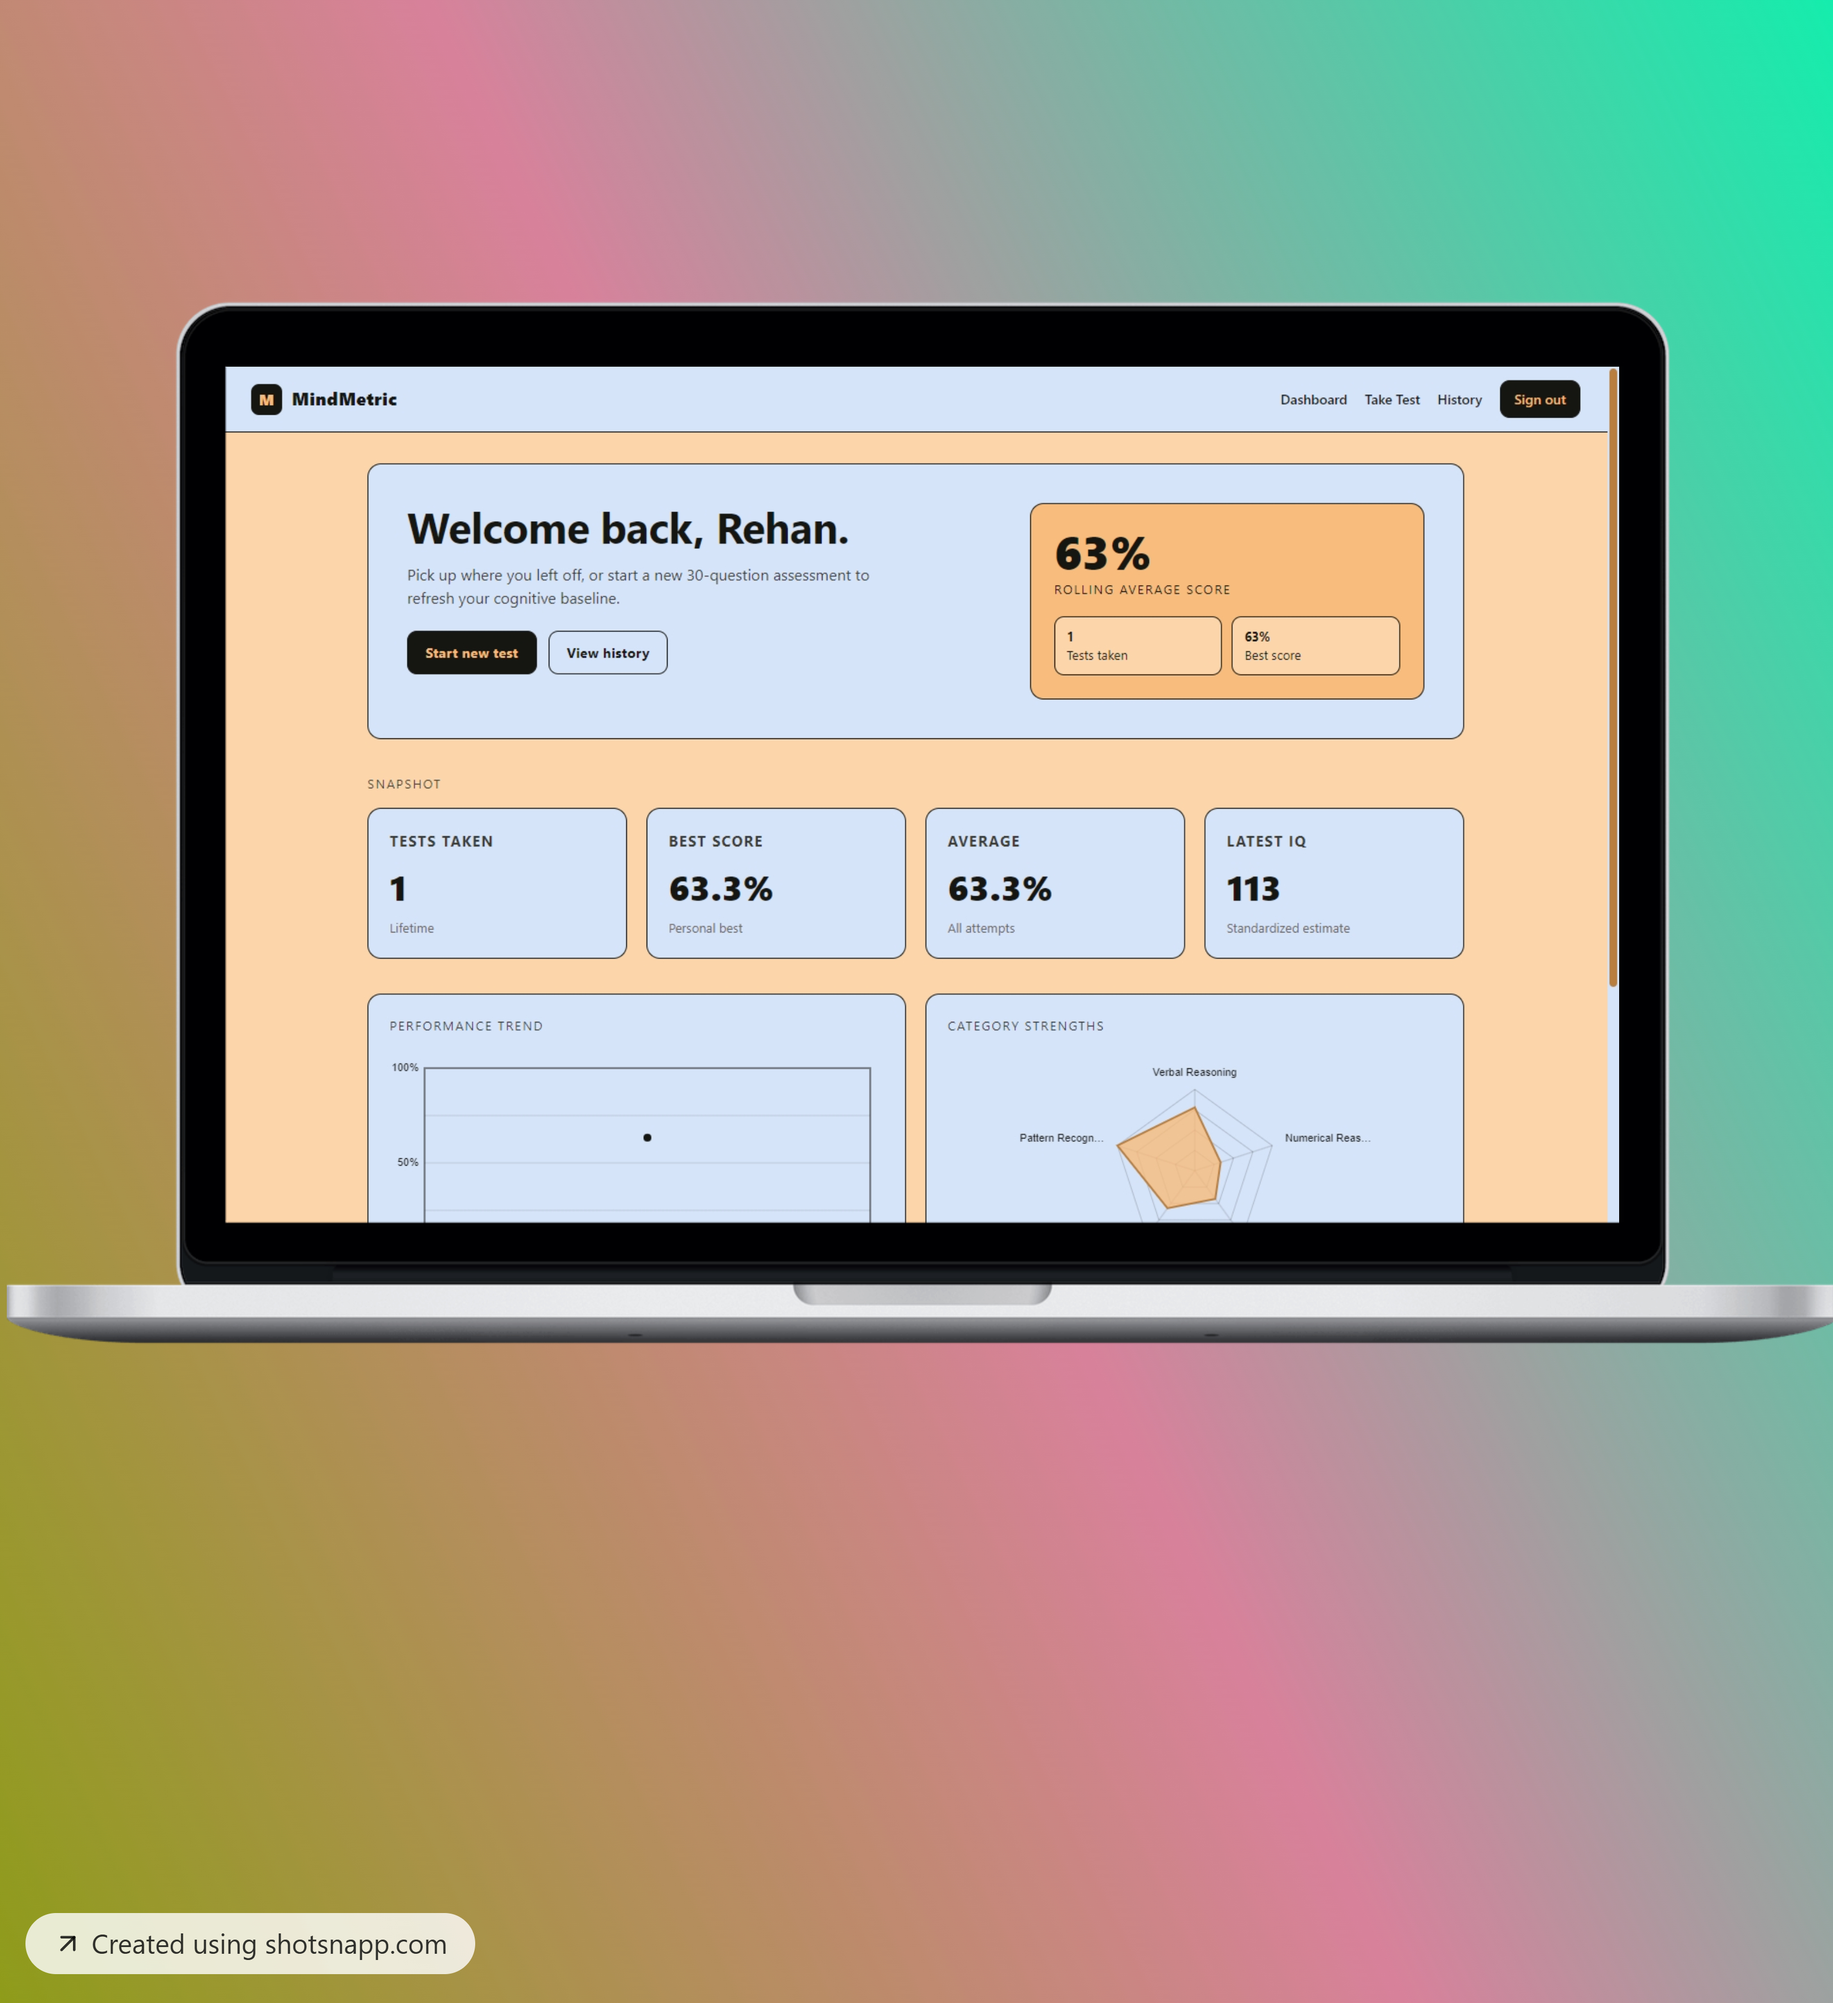
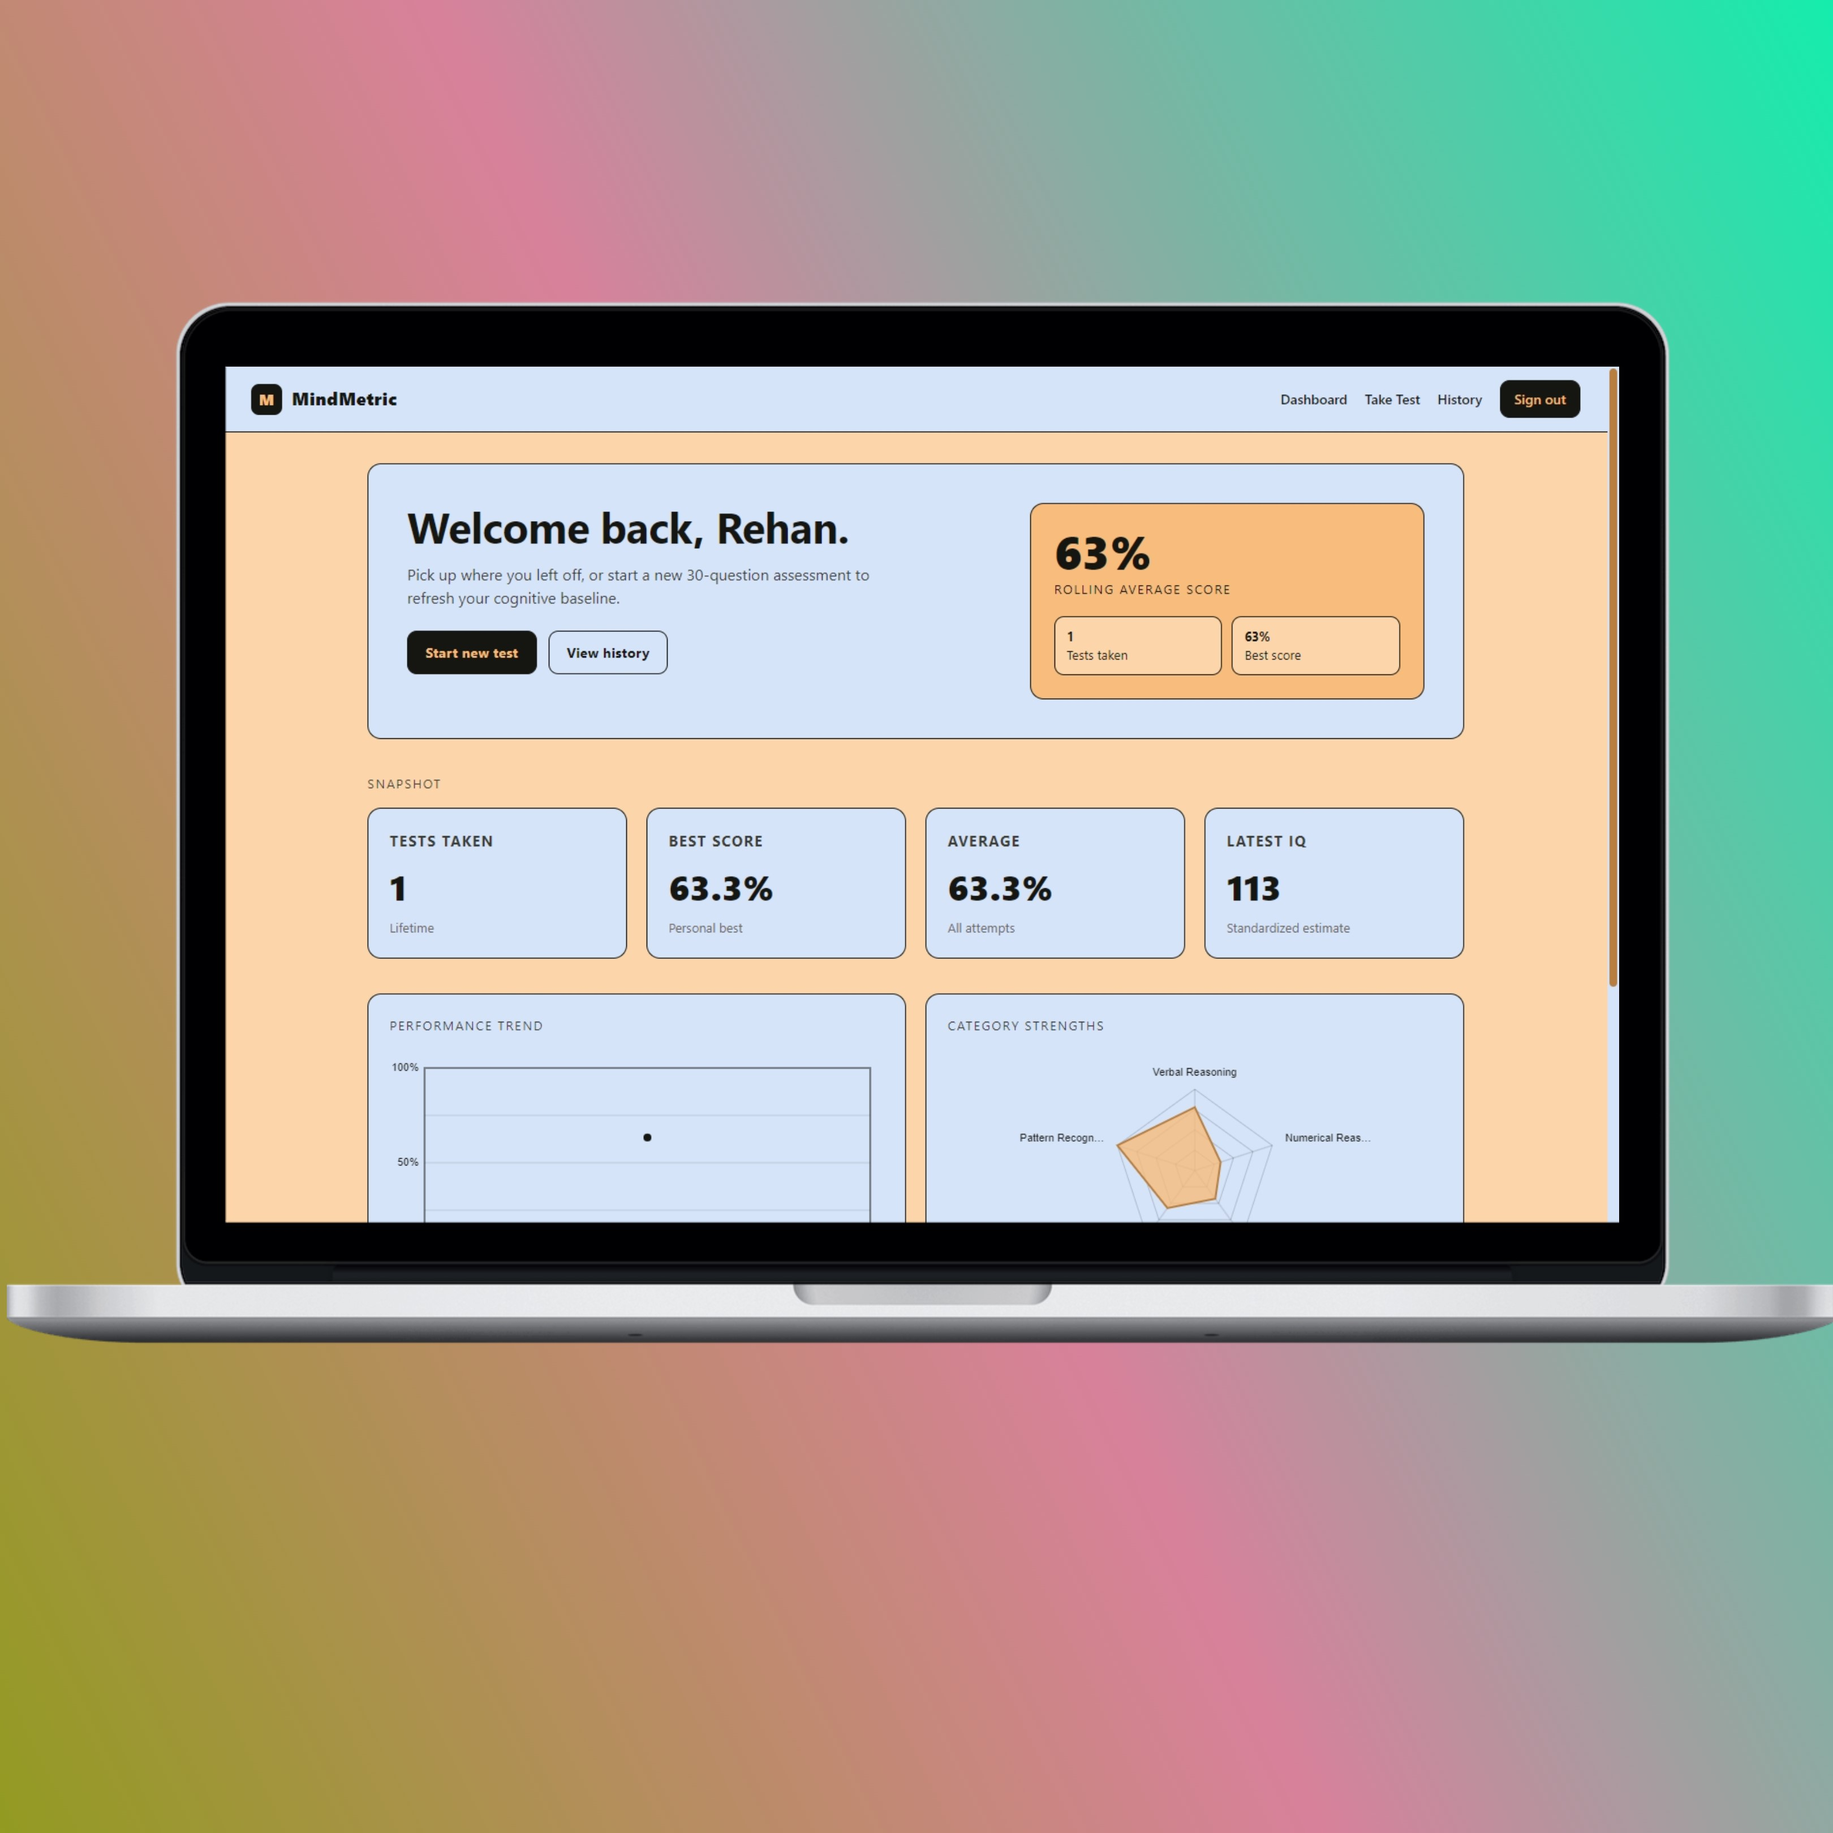
Images FIX

Changed region(s): [[0.0, 0.1247, 1.0, 0.7481], [0.0, 0.9352, 0.2806, 0.9975], [0.8728, 0.4988, 0.904, 0.5299]]

diff --git a/README.md b/README.md
@@ -58,7 +58,7 @@ For Gmail use an **App Password** (not your account password).
 ![Homepage](screenshots/home.jpeg)
 ![Dashboard](screenshots/dashboard.jpeg)
 ![Test Page](screenshots/test.jpeg)
-![Results Page](screenshots/shotsnapp-1781079481.727.jpeg)
+![Results Page](screenshots/result.jpeg)
 
 ## Folder Structure
 
